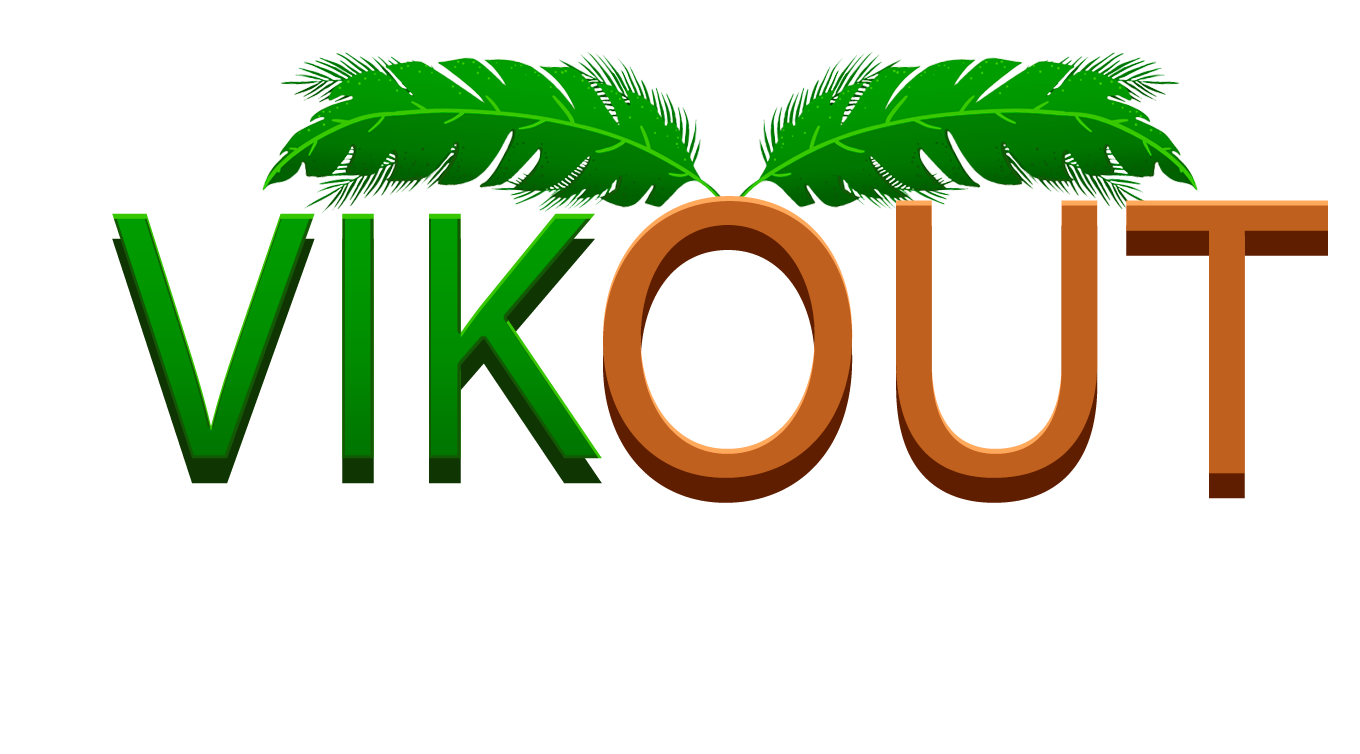
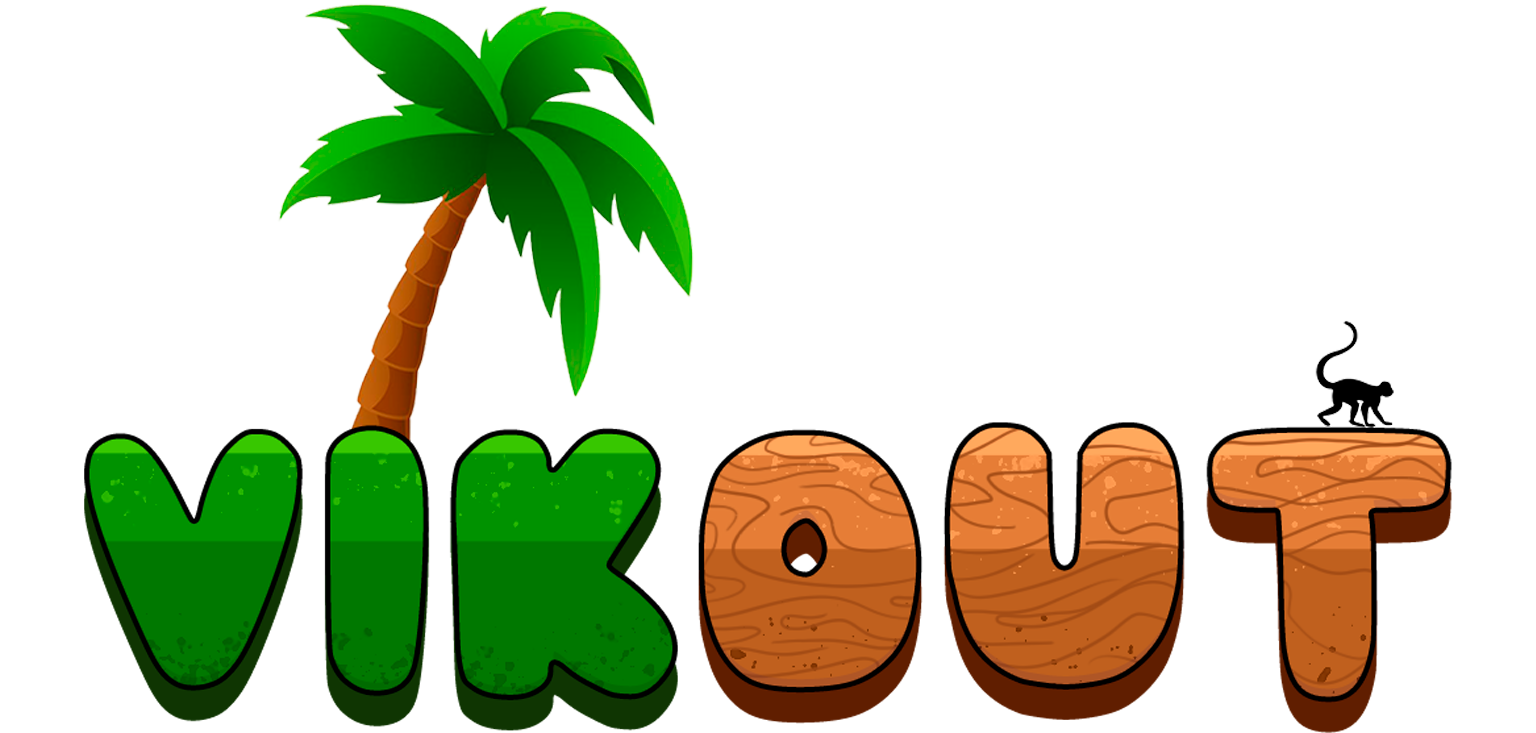
Change Title png, Finished Project

diff --git a/src/Scenes/Game.cpp b/src/Scenes/Game.cpp
@@ -141,7 +141,6 @@ namespace game
 				if (Rects[i].isAlive)
 				{
 					DrawRecSprite(Rects[i]);
-					/*slRectangleFill(Rects[i].x, Rects[i].y, Rects[i].width, Rects[i].height);*/
 				}
 			}
 
@@ -164,7 +163,6 @@ namespace game
 			for (int i = 0; i < actualBalls; i++)
 			{
 				DrawBallSprite(ball[i]);
-			/*slRectangleFill(ball[i].x, ball[i].y, ball[i].width, ball[i].height);*/
 			}
 
 			DrawRecSprite(Top_Height_Line);
@@ -179,8 +177,6 @@ namespace game
 				slSprite(PlayerLive.sprite[PlayerLive.currentSprite], livesAuxX, PlayerLive.y, PlayerLive.width, PlayerLive.height);
 				livesAuxX += 35;
 			}
-
-			/*slRectangleFill(Player.x, Player.y, Player.width, Player.height);*/
 		}
 		else if (state == GameState::Win)
 		{

diff --git a/src/Scenes/Menu.cpp b/src/Scenes/Menu.cpp
@@ -46,9 +46,9 @@ namespace menu
 		BackGround.SpriteH = 1100;
 
 		Title.sprite = slLoadTexture("assets/jungle/PNG/menu/Title.png");
-		Title.TexturePosition = { 800 / 2 + 130 , 800 - 120 };
-		Title.SpriteW = 900;
-		Title.SpriteH = 600;
+		Title.TexturePosition = { 800 / 2 + 160 , 730 };
+		Title.SpriteW = 750;
+		Title.SpriteH = 450;
 
 		Play.sprite = slLoadTexture("assets/jungle/PNG/menu/play.png");
 		Play.TexturePosition = { 400 - 60, 375 };

diff --git a/src/ScreenManagements/ScreenManager.cpp b/src/ScreenManagements/ScreenManager.cpp
@@ -1,8 +1,8 @@
 #include "ScreenManagements/ScreenManager.h"
 
+#include "ProyectUtilities/Utilities.h"
 #include "ScreenManagements/Screen.h"
 #include "Scenes/Credits.h"
-#include "ProyectUtilities/Utilities.h"
 #include "Scenes/Menu.h"
 #include "Scenes/Game.h"
 #include "Scenes/LevelSelector.h"

diff --git a/src/Objects/PowerUp.cpp b/src/Objects/PowerUp.cpp
@@ -1,6 +1,7 @@
 #include "PowerUp.h"
 
 #include <stdlib.h>
+
 #include "ProyectUtilities/Utilities.h"
 
 namespace powerUp
